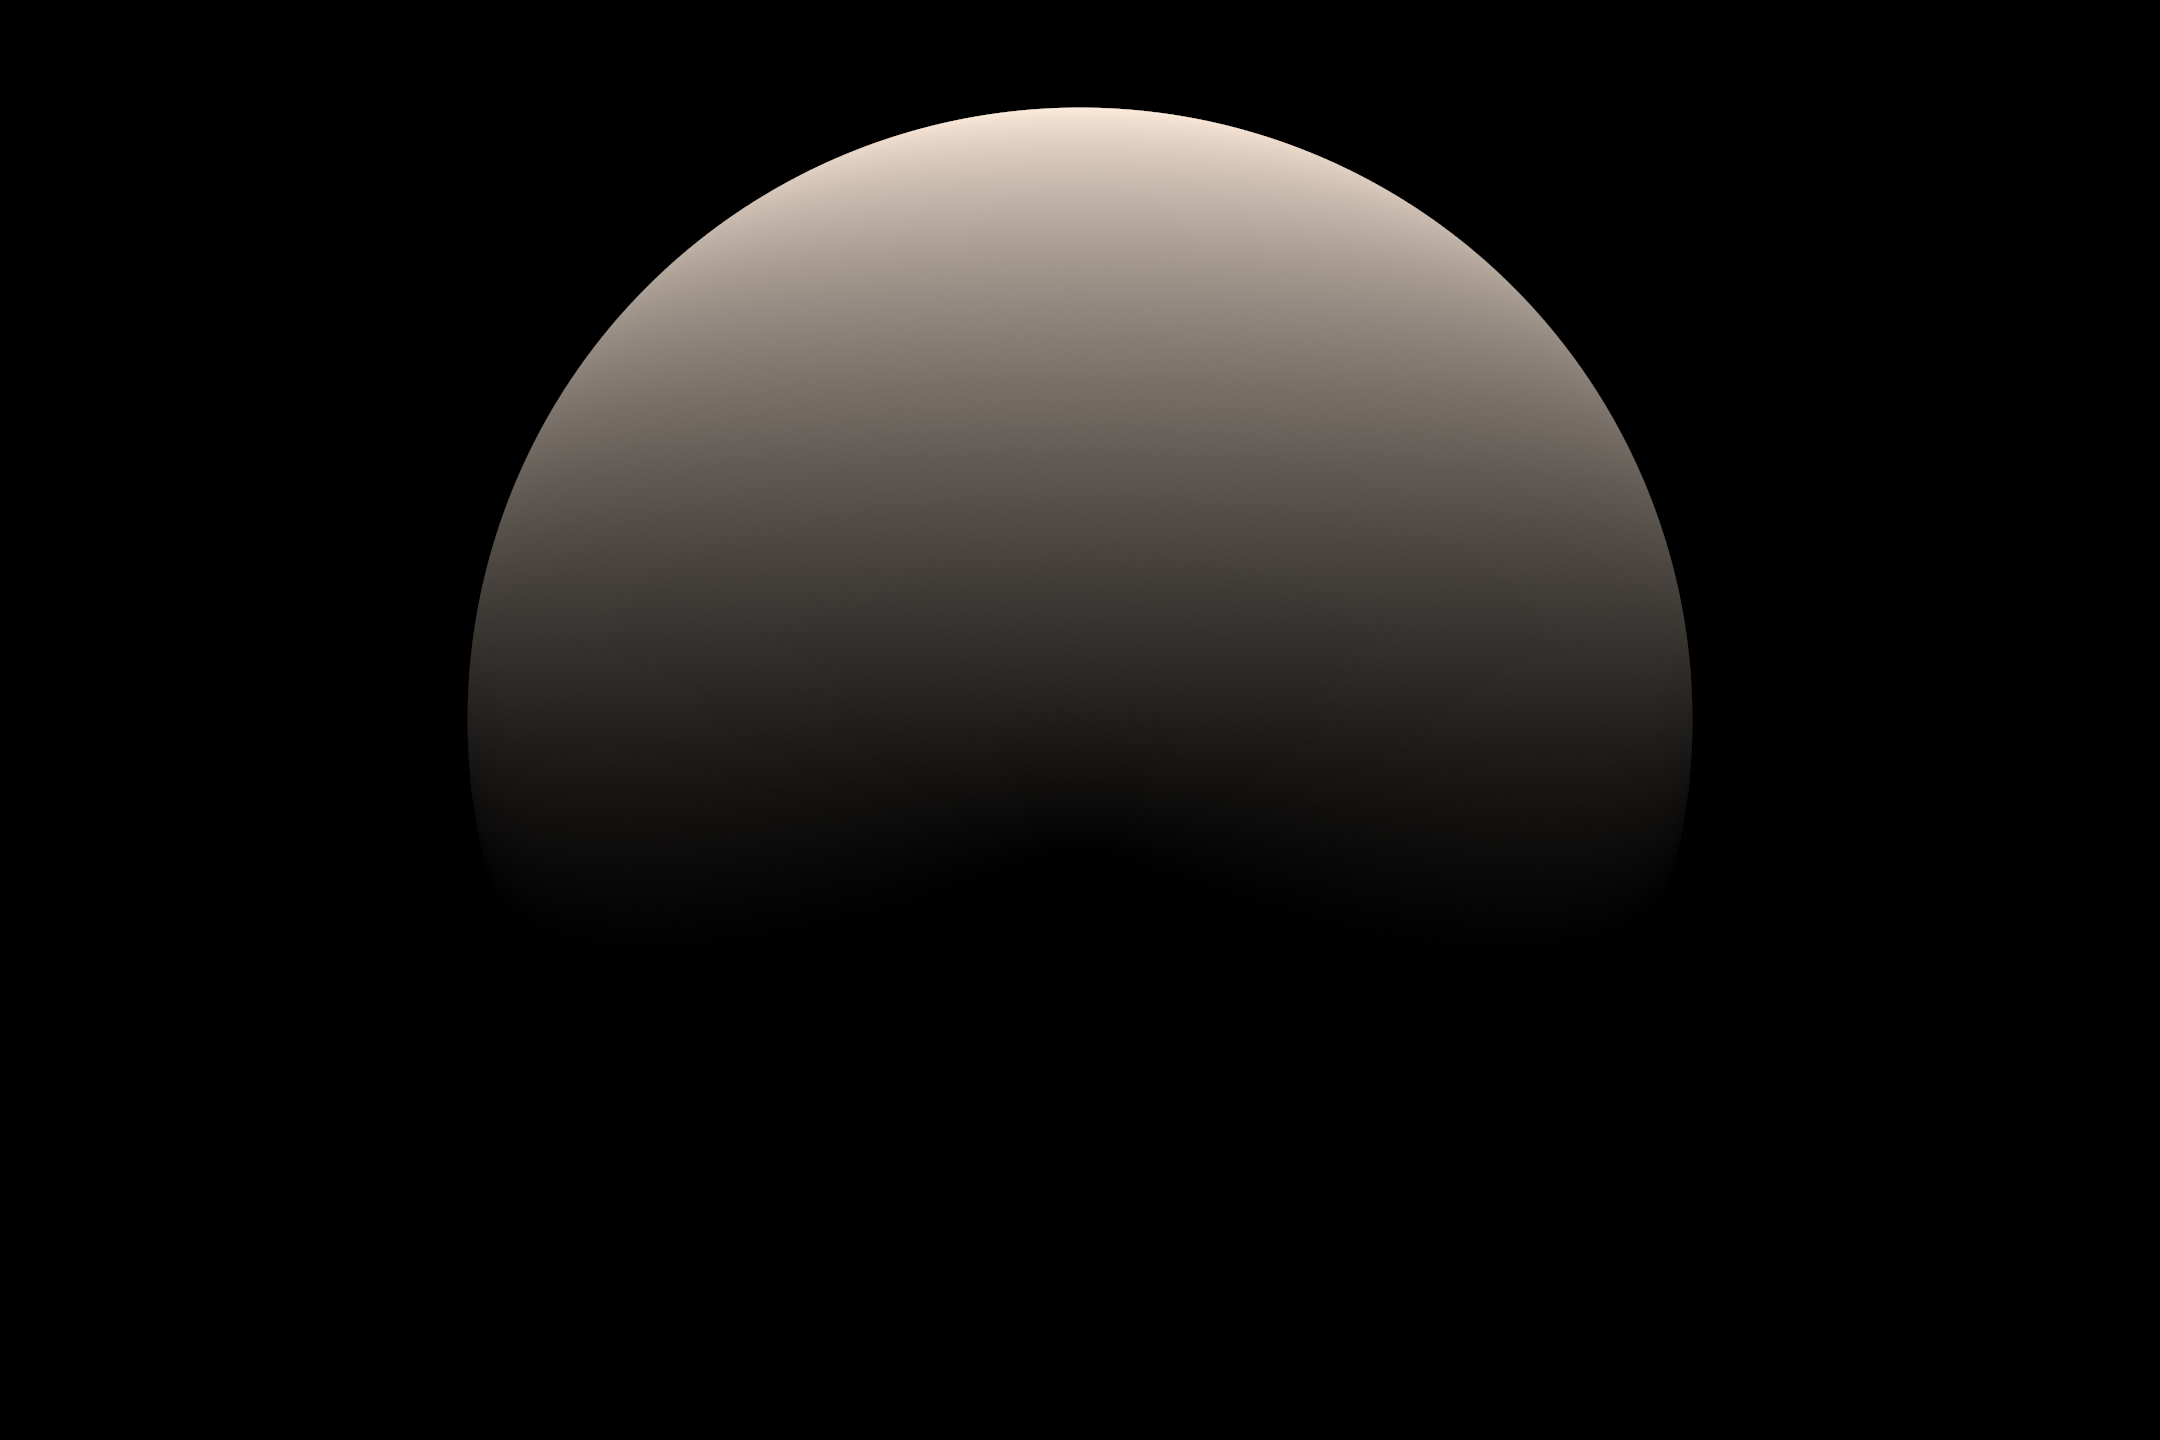
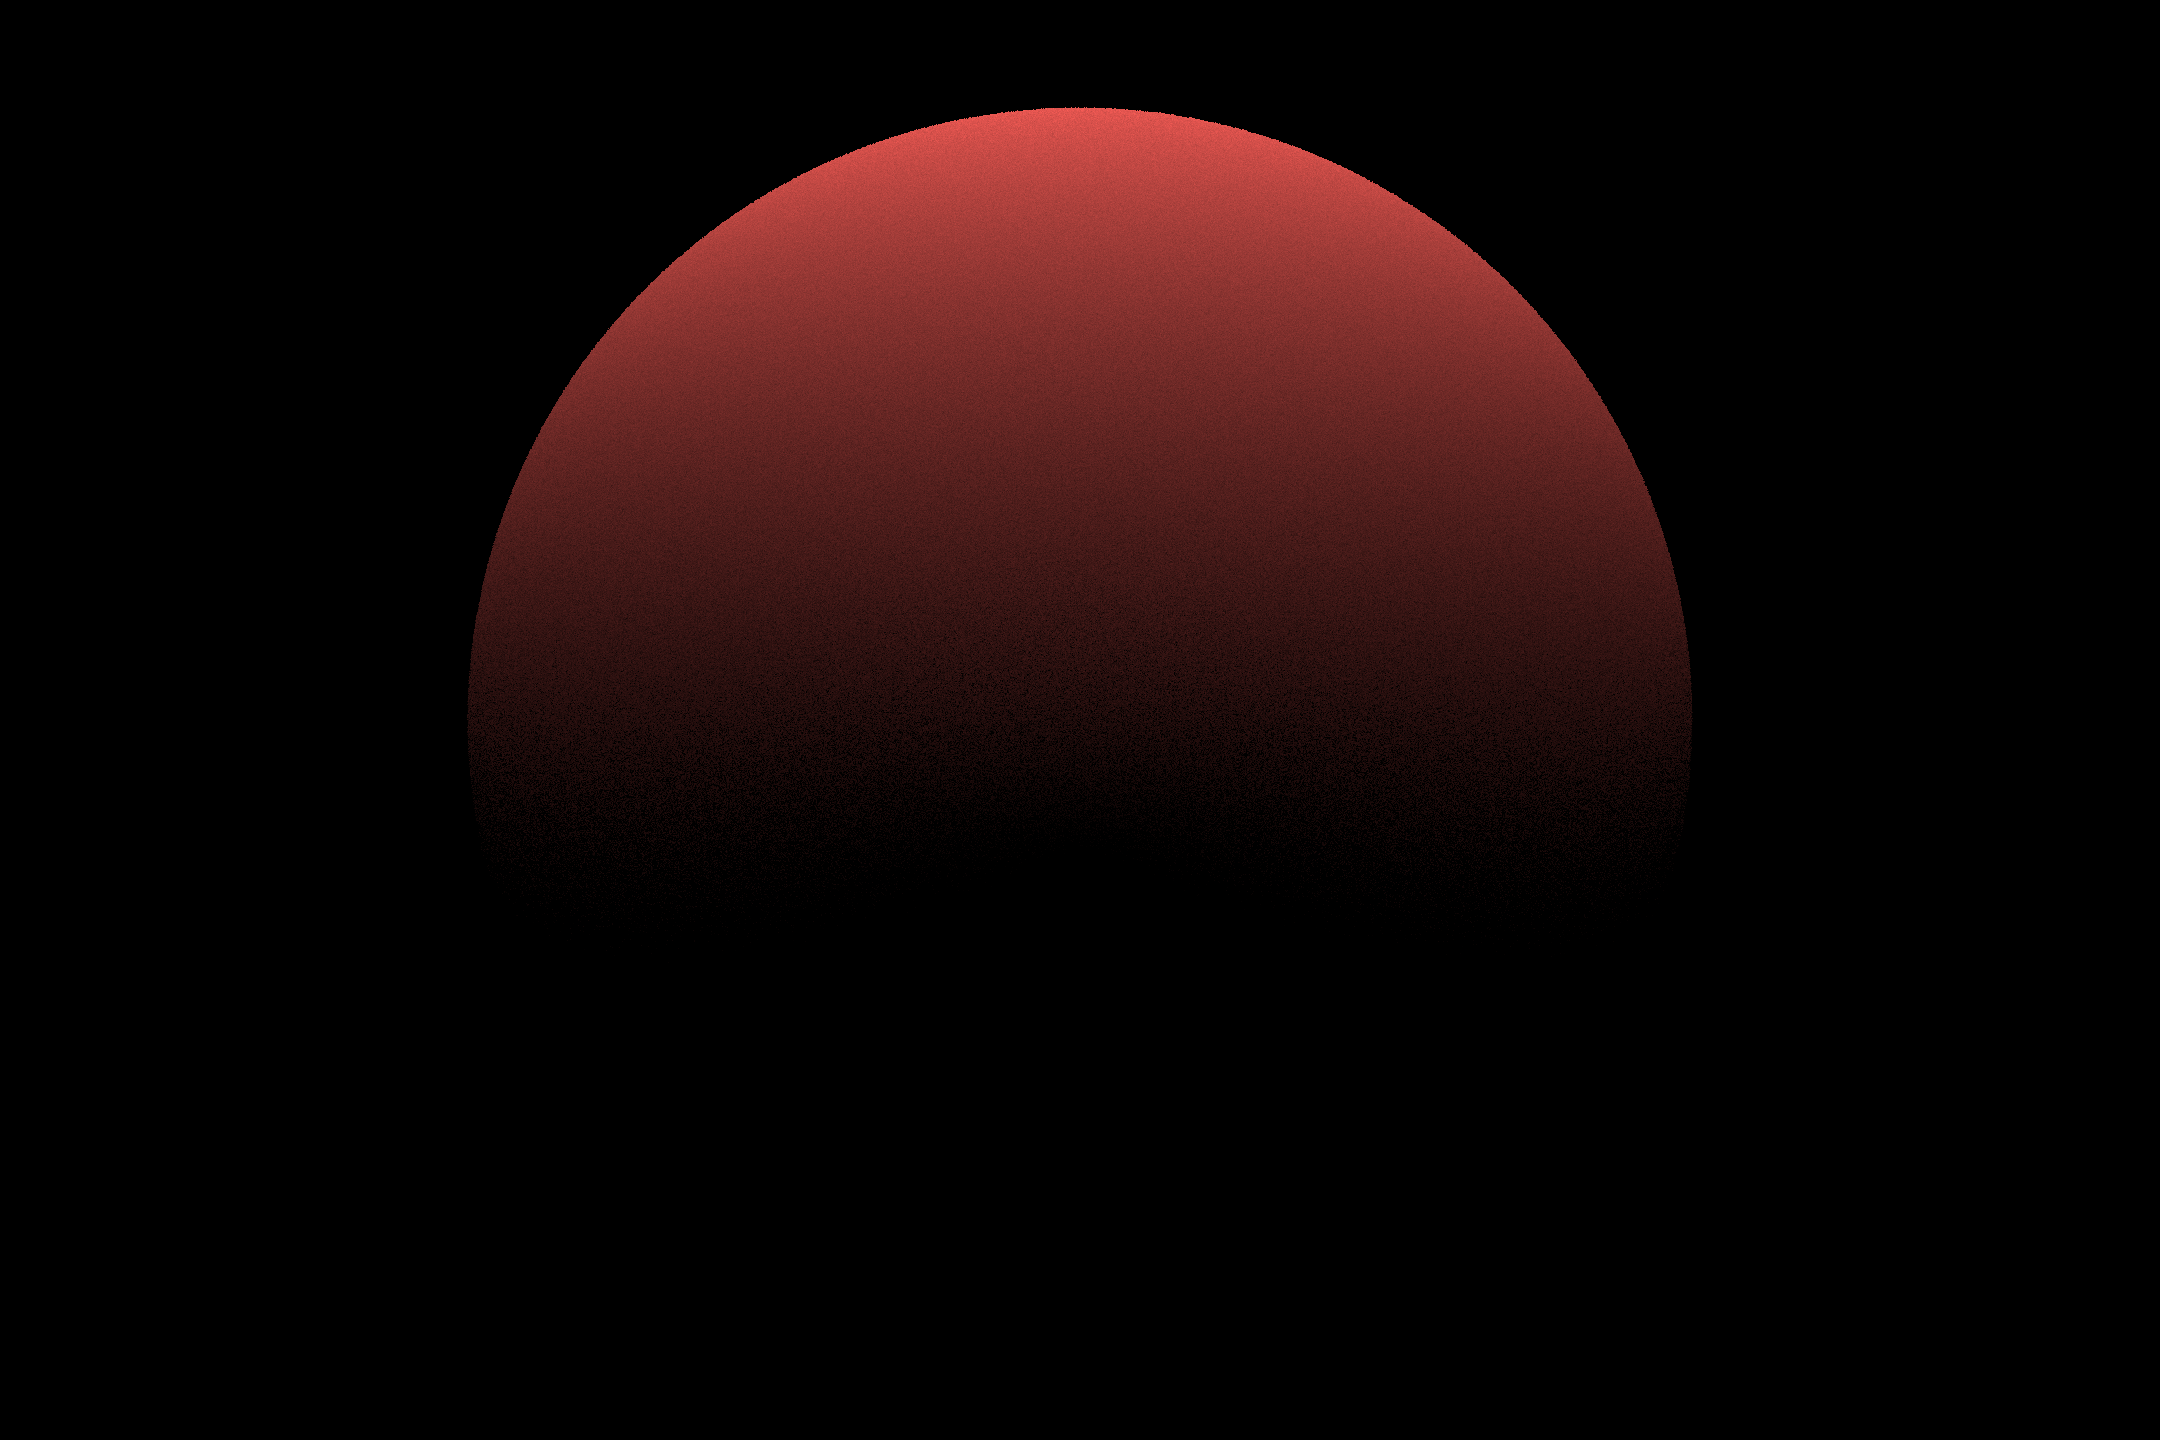
Updated .gitignore

Changed region(s): [[0.2171, 0.0625, 0.8065, 0.5625]]

diff --git a/src/main.rs b/src/main.rs
@@ -423,7 +423,7 @@ fn main() {
                     lambert_direct_mc(
                         hit.p,
                         hit.normal,
-                        Vec3::new(0.9, 0.9, 0.9),
+                        Vec3::new(0.74, 0.1, 0.1),
                         &area_light,
                         &sphere,
                         3,
